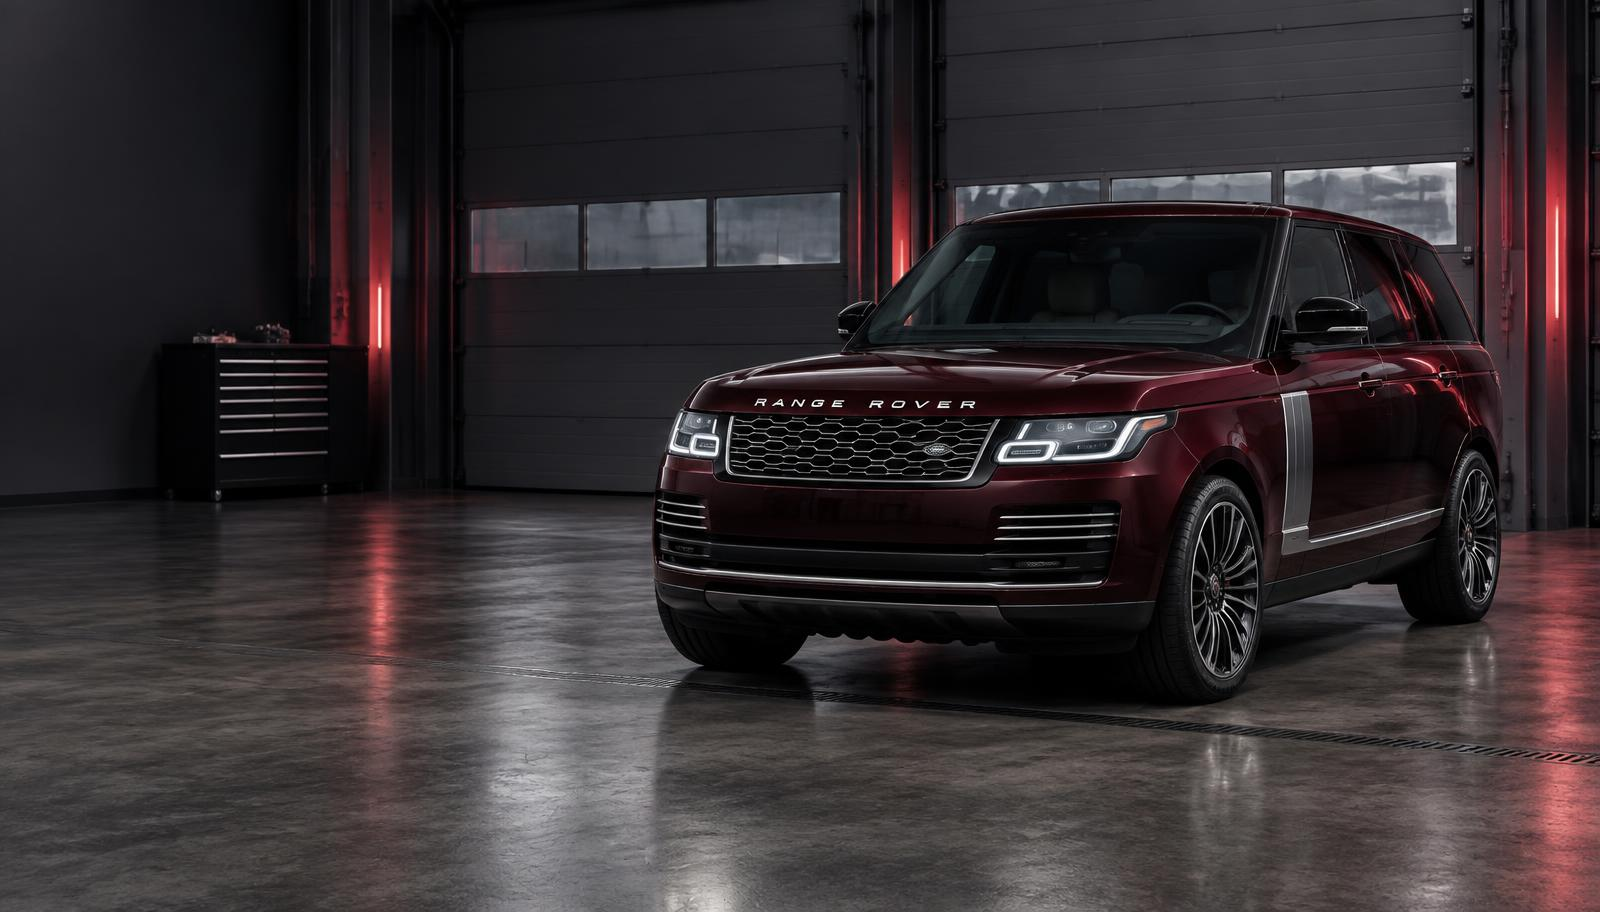
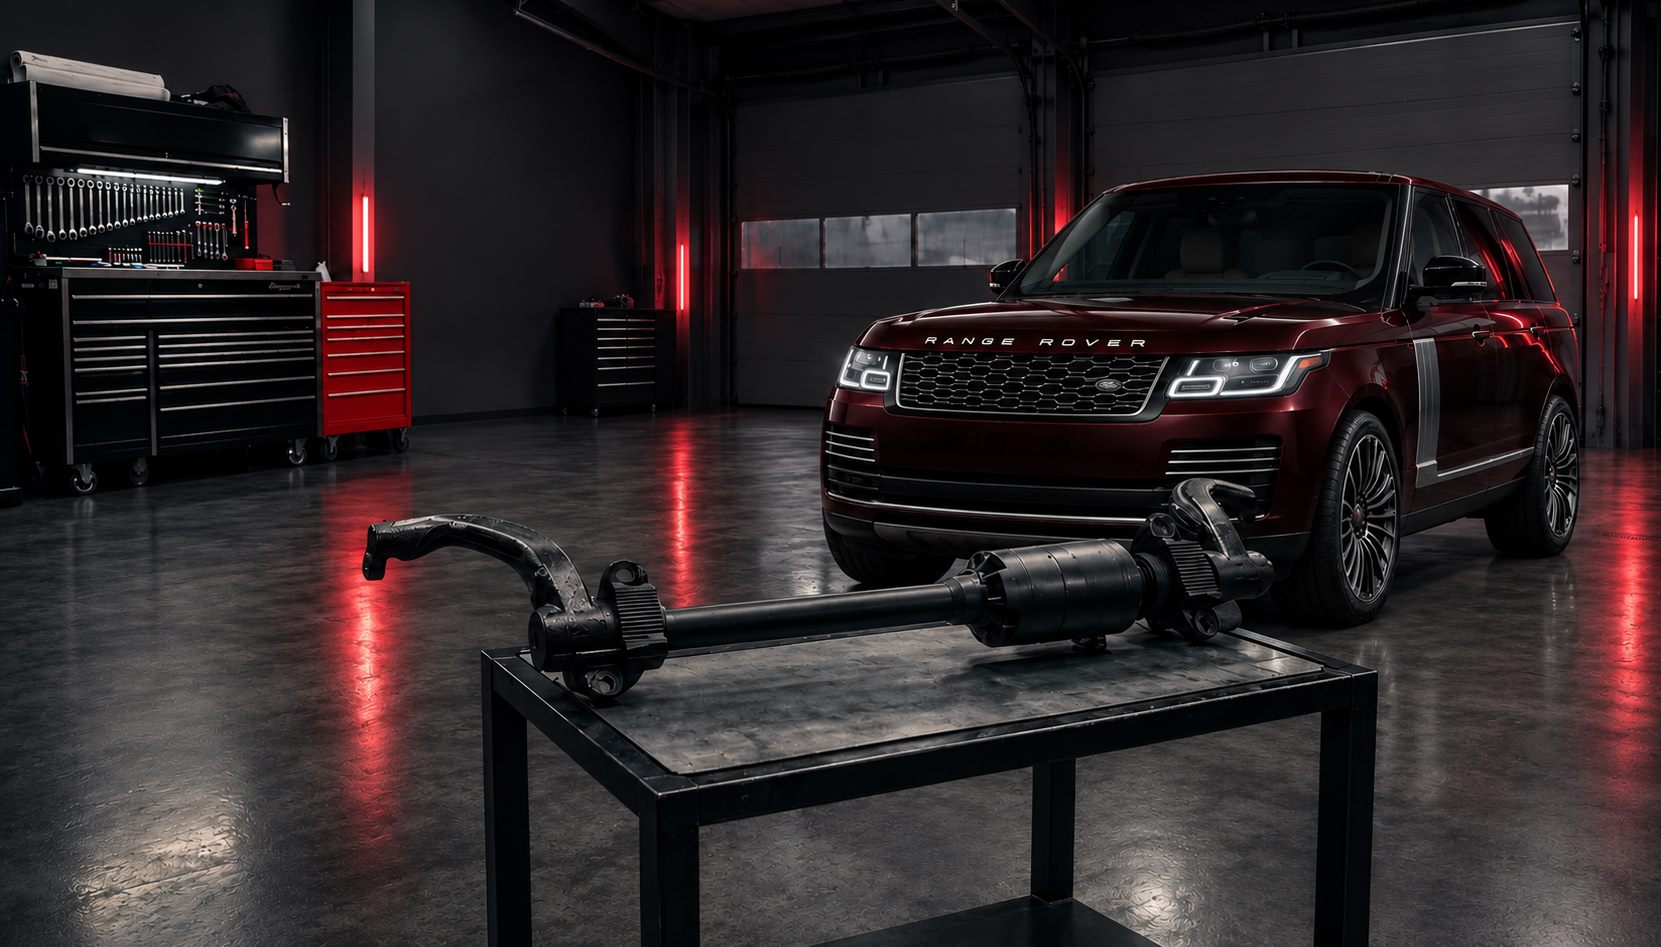
Заменил фото hero на новое изображение стабилизатора

diff --git a/src/routes/index.tsx b/src/routes/index.tsx
@@ -199,7 +199,7 @@ function HomePage() {
   return (
     <>
       <section id="top" className="relative isolate min-h-[540px] scroll-mt-20 overflow-hidden border-b border-border sm:min-h-[620px]">
-        <img src={hero} width={1600} height={912} alt="Range Rover в сервисной зоне RR-STAB" className="absolute inset-0 -z-20 h-full w-full object-cover object-[62%_center] brightness-125 saturate-110" />
+        <img src={hero} width={1661} height={947} alt="Range Rover в сервисной зоне RR-STAB" className="absolute inset-0 -z-20 h-full w-full object-cover object-[62%_center] brightness-125 saturate-110" />
         <div className="absolute inset-0 -z-10 bg-[linear-gradient(90deg,var(--service-deep)_0%,color-mix(in_oklab,var(--service-deep)_78%,transparent)_32%,color-mix(in_oklab,var(--service-deep)_5%,transparent)_68%,color-mix(in_oklab,var(--service-deep)_50%,transparent)_100%)]" />
         <div className="mx-auto flex min-h-[540px] max-w-7xl items-center px-4 py-16 sm:min-h-[620px] sm:px-6">
           <div className="max-w-2xl">
